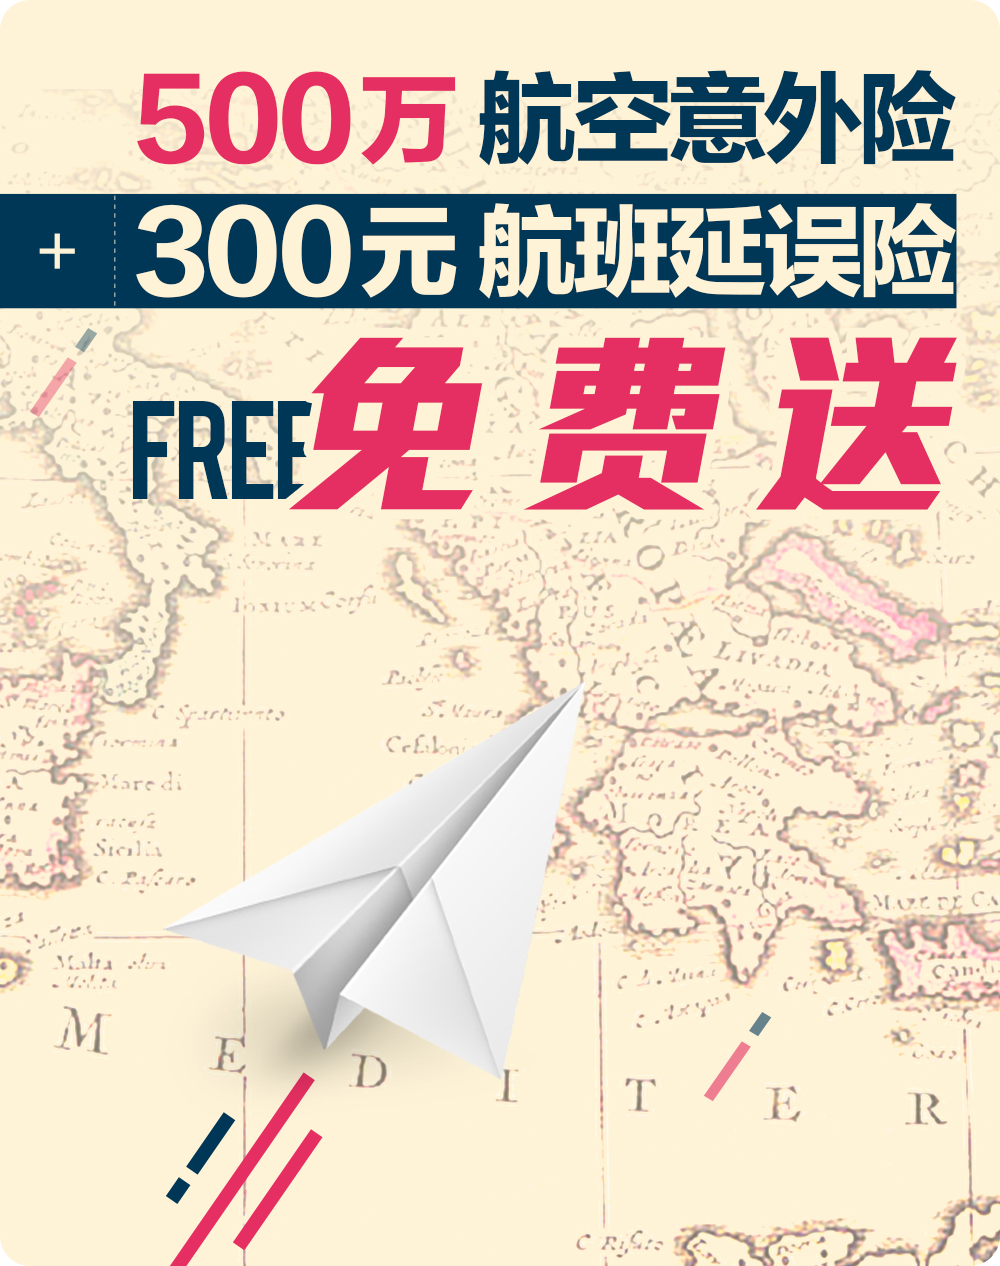
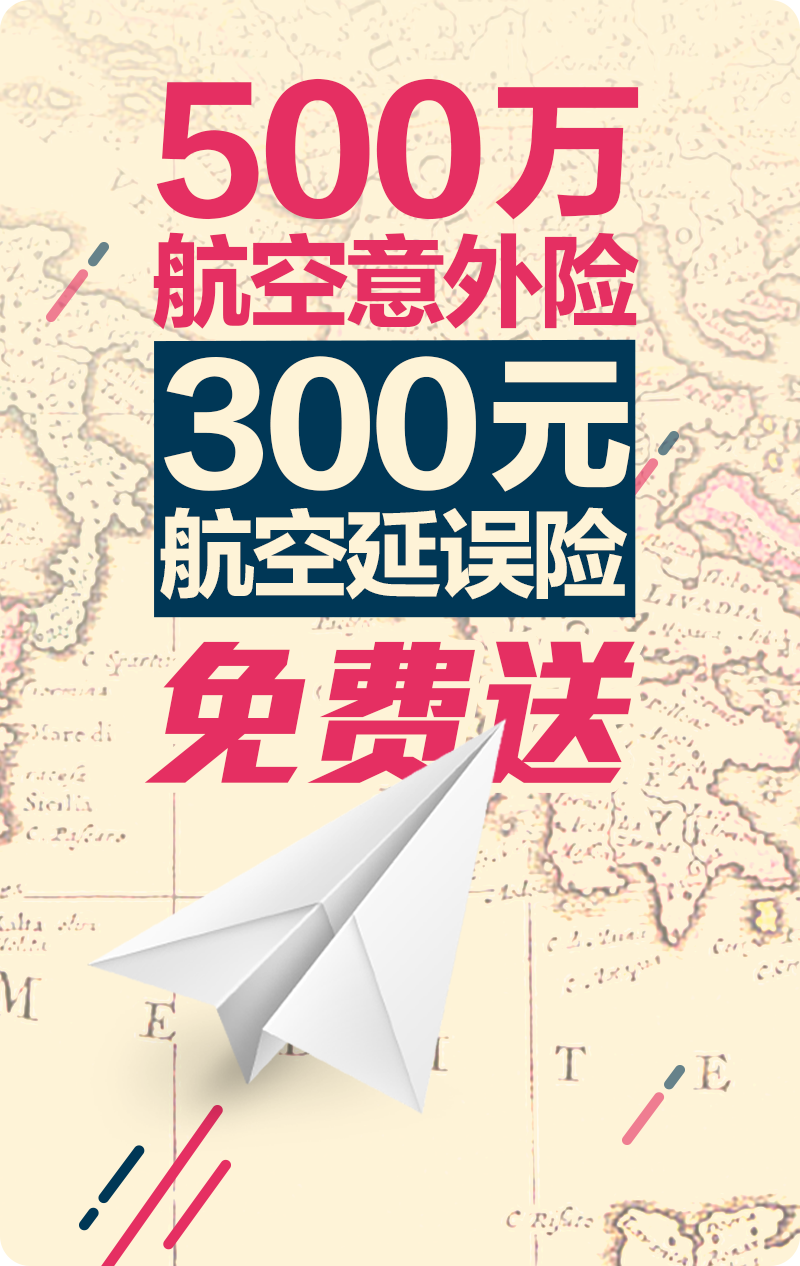
新定制页活动展示

diff --git a/app/partials/index_part.html b/app/partials/index_part.html
@@ -58,7 +58,7 @@ body{
   top: 15px;
   width: 20px;
   height: 20px;
-  z-index: 9999999999999999;
+  z-index: 9999999999;
 }
 .off img {
   width: 100%;
@@ -74,14 +74,14 @@ body{
   top: 0;
   width: 100%;
   height: 100%;
-  margin: 30% auto;
+  margin: 20% auto;
   z-index: 99999999;
 }
 .swiper-slide {
   text-align: center;
   font-size: 18px;
   background: #fff;
-  width: 3.35rem;
+  width: 2.67rem;
   /*width: 60%;*/
   height: 60%;
   height: 0;
@@ -89,7 +89,7 @@ body{
 }
 .swiper-slide img {
   /*width: 3.34rem;*/
-  width: 3.35rem;
+  width: 2.67rem;
 }
 /*
 .fix_container .left{
@@ -170,11 +170,11 @@ body{
   </div>
 <!-- 礼物弹窗 -->
 <div class="swiper-container" id ="share_ctrl">
-  <div class="off" ng-click="shareHide()"><img src="img/index_img/X.png" srcset="img/index_img/xx.png 568w, img/index_img/X.png 667w, img/index_img/X.png 736w"></div>
-  <div class="opacity_ctrl"></div>
+  <div class="off" ><img src="img/index_img/X.png" srcset="img/index_img/xx.png 568w, img/index_img/X.png 667w, img/index_img/X.png 736w"></div>
+  <div class="opacity_ctrl" id="opacity_ctrl"></div>
   <div class="swiper-wrapper">
-    <div class="swiper-slide" style="width: 260px;" ><img ng-click="goSports()" src="img/index_img/jixian_big.png" srcset="img/index_img/jixian_small.png 568w, img/index_img/jixian_big.png 667w, img/index_img/jixian_big.png 736w"></div>
-    <div class="swiper-slide" style="width: 260px;" ><img ng-click="goIndexShare()" src="img/index_img/five_big.png" srcset="img/index_img/five_small.png 568w, img/index_img/five_big.png 667w, img/index_img/five_big.png 736w"></div>
+    <div class="swiper-slide" style="width: 260px;" ><img ng-click="goSports()" src="img/index_img/jixian_big.png" ></div>
+    <div class="swiper-slide" style="width: 260px;" ><img ng-click="goIndexShare()" src="img/index_img/five_big.png" ></div>
   </div>
 </div>
 <script src="wx_bx_gl/js/swiper.min.js"></script>
@@ -205,9 +205,9 @@ body{
 /*Swiper Js*/
   var swiper = new Swiper('.swiper-container', {
       pagination: '.swiper-pagination',
-      slidesPerView: 1.2,
+      slidesPerView: 1.5,
       centeredSlides: true,
       paginationClickable: true,
-      spaceBetween: 12
+      spaceBetween: 40
   });
 </script>

diff --git a/app/index.html b/app/index.html
@@ -85,7 +85,7 @@
    -->
   <script src="js/util.js?rev=a17b5bdf82f58df014ea97ad64b20094"></script>
   <script src="js/app.js?rev=d7503cebe3ad2d2bcd7794d60d6da927"></script>
-  <script src="js/main_controllers.js?rev=10114b22a6bbd335e2582f1f358976dc"></script>
+  <script src="js/main_controllers.js?rev=e6e973ae6d8d4691f979c88f0ab51a3f"></script>
   <script src="js/temai_controllers.js?rev=5853d5291fcae31ca2f8915ffce227cd"></script>
   <script src="js/baodan_management_controller.js?rev=b956e2308ac4a3a5349b9b3cd50a818e"></script>
   <script src="js/directives.js?rev=57d74af2016e6c30d8b9b057ef03947a"></script>

diff --git a/app/js/main_controllers.js b/app/js/main_controllers.js
@@ -480,9 +480,14 @@ mainControllers.controller('ybwxIndexCtrl', ['$scope', '$routeParams', '$locatio
 		$scope.data = {
 			aggregate_score: 0
 		}
-		$scope.shareHide = function() {
-			$("#share_ctrl").hide();
-		}
+		// $scope.shareHide = function() {
+			
+		// }
+		 $("body").on("click", "#share_ctrl", function() {
+		 	$("#share_ctrl").hide();
+		 }).on("click","#opacity_ctrl",function() {
+		 	$("#share_ctrl").hide();
+		 })
 		$scope.goSports = function() {
 		  window.location = "/wx_share.html#/jixian";
 		}

diff --git a/app/wx_share/partials/index_part.html b/app/wx_share/partials/index_part.html
@@ -9,7 +9,7 @@
 		<li></li>
 	</ul >
 	<div class="share_mian">
-		<img src="wx_share/img/my_bd/activity_big.jpg">
+		<img src="wx_share/img/my_bd/activity_big.png">
 		<!-- <img src="wx_share/img/my_bd/activity_small.png"> -->
 		<div class="up">
 			<div class="img_logo layout">
